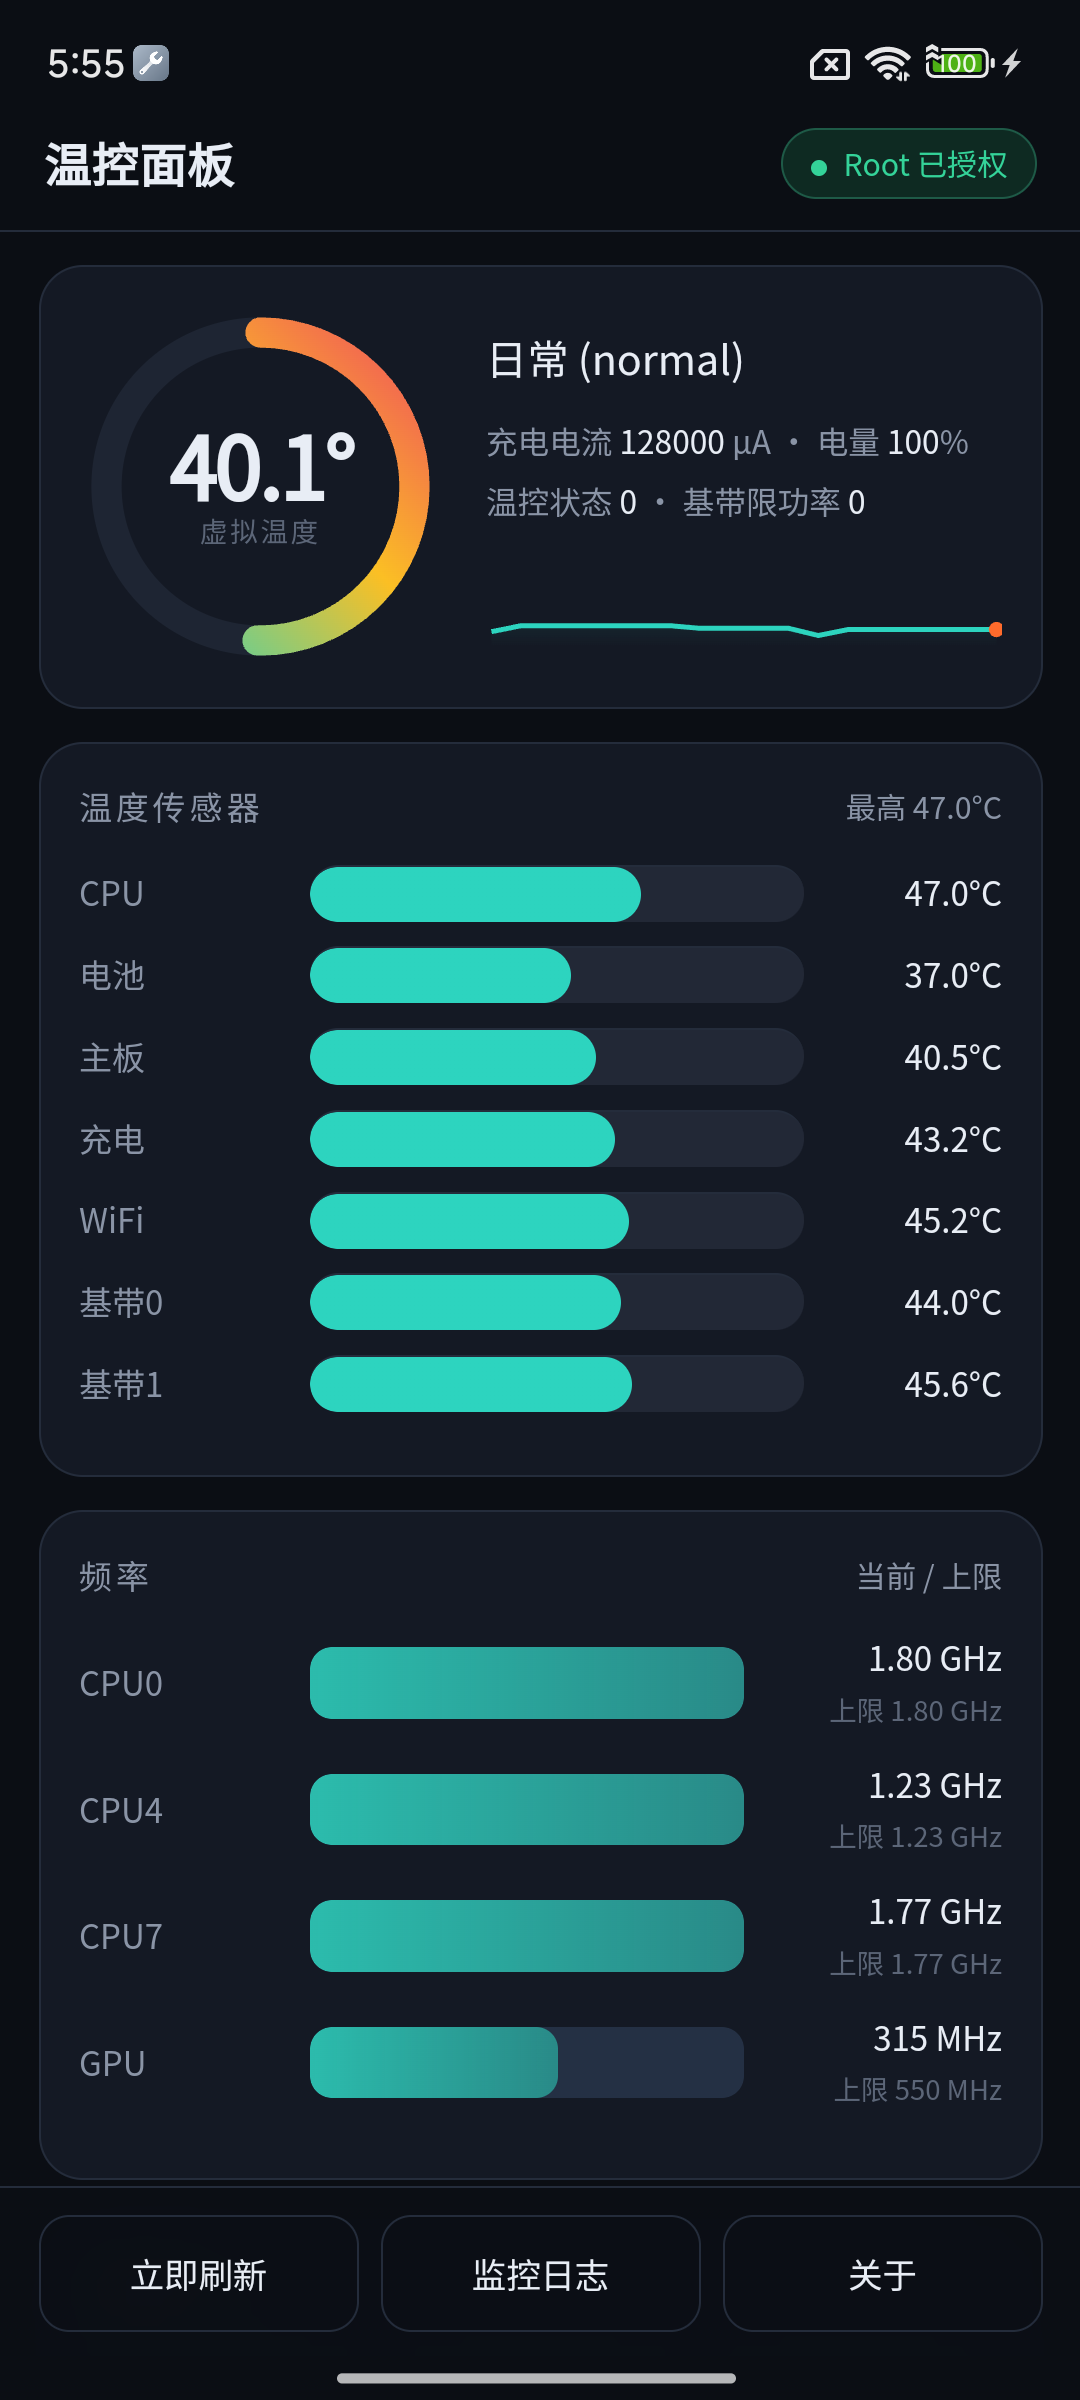
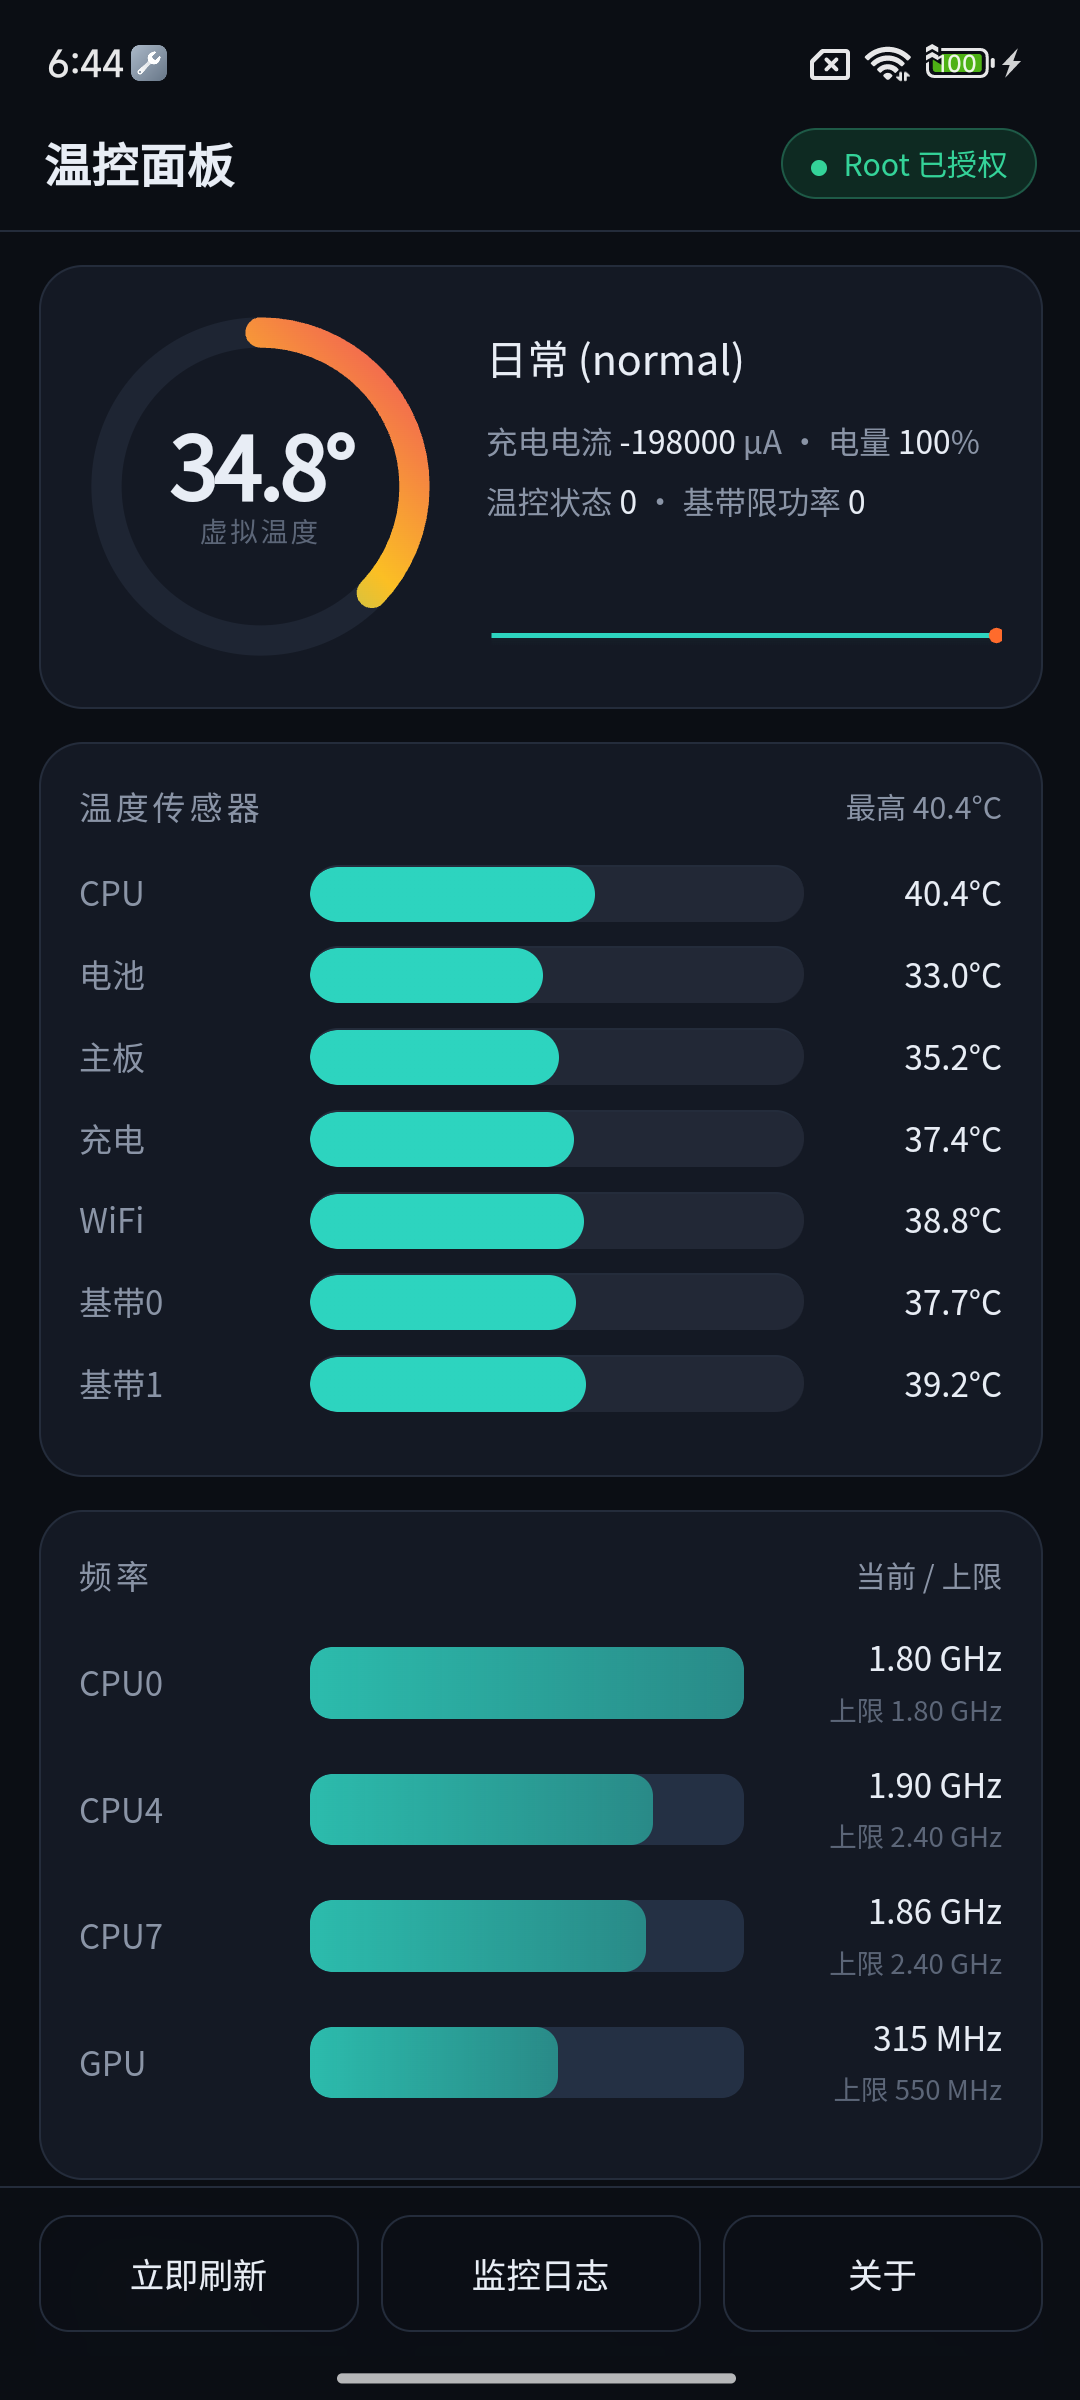
docs: 补充 5 张界面截图, README 增加截图画廊
- 01 仪表盘 (虚拟温度环形表 + 温度曲线 + 7 路传感器 + 频率对比)
- 02 温控预设 (原厂/cool/mild/game/unlock)
- 03 实时限制 (CPU·GPU 滑块、充电限流档位、温控状态)
- 04 场景配置编辑 (场景→节→键 三级联动)
- 05 关于 (版本与作者信息)

diff --git a/README.md b/README.md
@@ -30,7 +30,26 @@
 * 常驻监控温控状态、真实温度、实际频率、充电电流、生效中的散热设备
 
 <div align="center">
-  <img src="docs/ui.png" width="360" alt="温控面板">
+  <img src="docs/ui.png" width="330" alt="温控面板 · 仪表盘">
+</div>
+
+### 界面一览
+
+<div align="center">
+
+<table>
+<tr>
+<td width="33%"><img src="docs/shots/01-dashboard.png" alt="仪表盘"><br><b>仪表盘</b><br><sub>虚拟温度环形表 · 历史曲线 · 7 路传感器 · 频率对比</sub></td>
+<td width="33%"><img src="docs/shots/02-presets.png" alt="温控预设"><br><b>温控预设</b><br><sub>原厂 / cool / mild / game / unlock 一键切换</sub></td>
+<td width="33%"><img src="docs/shots/03-limits.png" alt="实时限制"><br><b>实时限制</b><br><sub>CPU·GPU 滑块 · 充电限流档位 · 温控状态</sub></td>
+</tr>
+<tr>
+<td width="33%"><img src="docs/shots/04-editor.png" alt="场景配置编辑"><br><b>场景配置编辑</b><br><sub>场景 → 节 → 键 三级联动，改完即加密写回</sub></td>
+<td width="33%"><img src="docs/shots/05-about.png" alt="关于"><br><b>关于</b><br><sub>版本 · 功能 · 作者信息</sub></td>
+<td width="33%"></td>
+</tr>
+</table>
+
 </div>
 
 ### 联系
@@ -268,6 +287,7 @@ python tools/build_module_zip.py     # -> dist/MiThermalTuner.zip
 ├── reference/decrypted/     16 个场景的明文配置 (供研究)
 ├── docs/
 │   ├── ui.png
+│   ├── shots/                 界面截图
 │   └── thermal-config-format.md
 └── .github/workflows/build.yml
 ```
